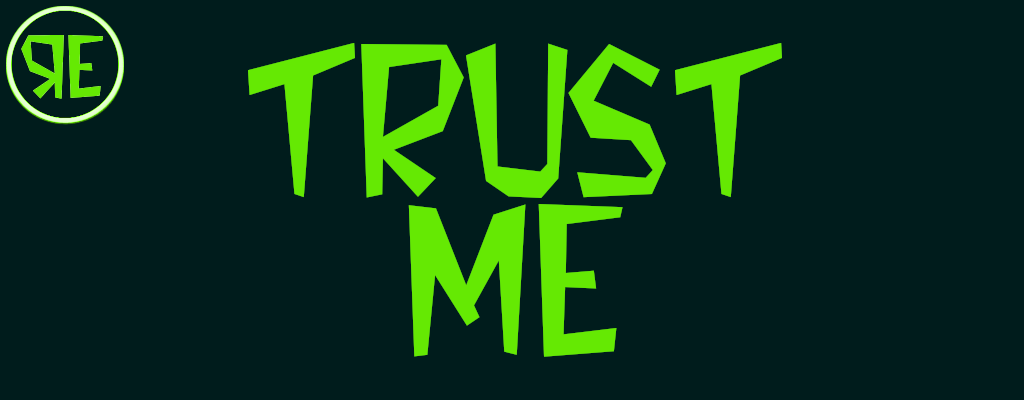
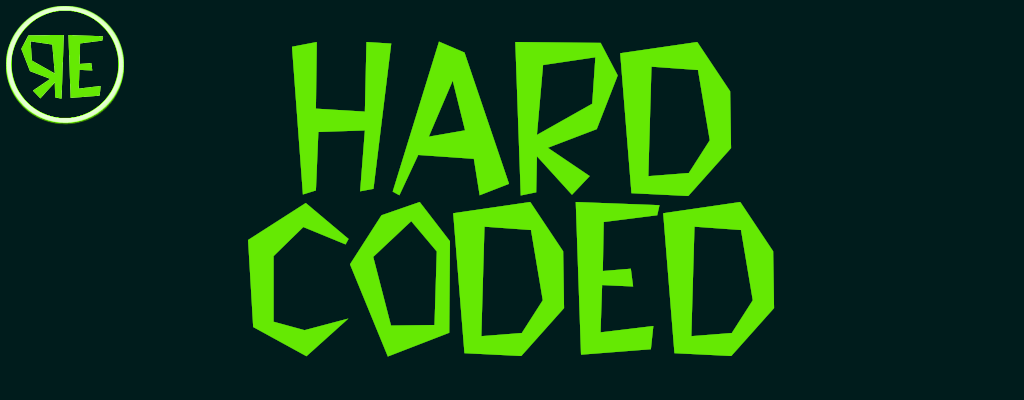
aggiornamento

Changed region(s): [[0.2188, 0.09, 0.7812, 0.9]]

diff --git a/hard_coded.html b/hard_coded.html
@@ -1,0 +1,370 @@
+<!DOCTYPE html>
+<html lang="it">
+<head>
+<meta charset="utf-8">
+<meta name="viewport" content="width=device-width, initial-scale=1.0">
+<meta property="og:image" content="https://spaghetti-hacker.github.io/trust_me.png">
+<meta property="og:image:width" content="1024">
+<meta property="og:image:height" content="400">
+<meta property="og:title" content="TRUST ME">
+<meta property="og:description" content=";crackme che usa TracerPid come meccanismo anti-debug a tre stage.">
+<meta property="og:type" content="article">
+
+<meta name="twitter:card" content="summary_large_image">
+<meta name="twitter:image" content="https://spaghetti-hacker.github.io/trust_me.png">
+
+
+<title>HARD CODED</title>
+<link rel="icon" type="image/png" href="favicon.png">
+<link rel="stylesheet" href="hcf2.css">
+</head>
+<body>
+<div class="wrapper">
+<img src="https://spaghetti-hacker.github.io/trust_me.png" alt="banner" style="width:100%;display:block;">
+<div id="output"></div>
+</div>
+<!--
+================================================================
+SCRIVI QUI IL TUO CONTENUTO
+================================================================
+
+REGOLE:
+  - La prima riga non vuota diventa il titolo della pagina
+    e l'intestazione del box (es. "NO_ELF ~ HCF")
+
+  - @@@...@@@ → blocco codice/assembly (pre-wrap, sfondo scuro)
+
+  - Testo normale → commento (colore muted, paragrafi separati
+    da righe vuote)
+
+  - I link si scrivono normalmente in HTML: <a href="...">testo</a>
+    Il parser li lascia passare nei commenti senza escapare.
+
+  - Tutto il contenuto finisce dentro un unico div.article,
+    esattamente come in no_elf.html.
+
+================================================================
+ESEMPIO:
+
+NO_ELF ~ HCF
+
+<a href="https://spaghetti-hacker.github.io/">&lt;&lt;</a>
+
+;primo commento introduttivo.
+
+;secondo paragrafo del commento.
+
+@@@
+0x00400806 push rbp
+0x00400807 mov rbp, rsp
+@@@
+
+;commento sul blocco qui sopra.
+
+@@@
+0x004008ea ret
+@@@
+
+;commento finale.
+<a href="https://spaghetti-hacker.github.io/">&lt;&lt;</a>
+================================================================
+-->
+<script id="content" type="text/plain">
+HARD CODED ~ HCF
+
+<a href="https://spaghetti-hacker.github.io/">index.html</a>
+
+visite: <span id="visits">...</span>
+
+section .INTRODUZIONE
+
+;il binario oggetto di analisi implementa un finto meccanismo di autenticazione basato su password e hash, presentato all'utente come un sistema di "account" personale: si imposta una password, se ne dichiara la lunghezza, e infine si fornisce un valore di hash per "sbloccare" l'accesso e visualizzare la flag. Il documento è organizzato seguendo il flusso di esecuzione del programma: allocazione e setup iniziale del buffer, interazione con l'utente, meccanismo di verifica, analisi dettagliata di make_secret e dell'algoritmo di hashing (djb2), fino ai passi di sfruttamento riproducibili e alle conclusioni sulla natura della vulnerabilità.
+
+_Nota_Metodologica:
+
+;l'analisi è stata condotta con r2 (radare2) e IDA Free in modalità statica (disassembly di main, make_secret, hash) integrata da osservazione dinamica dei valori a runtimei con gdb, necessaria per confermare che l'output del meccanismo di hashing è costante e indipendente dall'input utente.
+
+<img src="https://spaghetti-hacker.github.io/trust0.png" class="full-img">
+
+section .SETUP_INIZIALE
+
+;la funzione main alloca un buffer heap di 0x5a (90 byte) tramite calloc, zero-inizializzato:
+
+@@@
+0x000013ee      mov esi, 1
+0x000013f3      mov edi, 0x5a
+0x000013f8      call sym.imp.calloc
+0x000013fd      mov qword [dest], rax
+@@@
+
+;calloc(nmemb=0x5a, size=1) alloca 90 byte azzerati sull'heap; ogni elemento è grande 1 byte. Il puntatore risultante viene salvato in dest e riutilizzato più volte nel corso della funzione main. Subito dopo, un ciclo decodifica una stringa offuscata contenuta in obj.obf_bytes, applicando uno XOR byte per byte con la chiave 0xaa, e scrive il risultato in dest a partire dall'offset +0x3c:
+
+@@@
+0x00001411      lea rdx, obj.obf_bytes
+0x00001418      mov rax, qword [var_110h]
+0x0000141f      add rax, rdx
+0x00001422      movzx eax, byte [rax]
+0x00001425      xor eax, 0xffffffaa
+0x00001428      mov ecx, eax
+0x0000142a      mov rax, qword [var_110h]
+0x00001431      lea rdx, [rax + 0x3c]
+0x00001435      mov rax, qword [dest]
+0x0000143c      add rax, rdx
+0x0000143f      mov edx, ecx
+0x00001441      mov byte [rax], dl
+0x00001443      add qword [var_110h], 1
+
+for (i = 0; i <= 0xC; i++)
+{
+    dest[i + 0x3C] = obf_bytes[i] ^ 0xAA;
+}
+@@@
+
+;xor eax, 0xffffffaa opera sul solo byte basso, la chiave effettiva e' 0xaa (170 decimale). Alla fine viene scritto solo dl, cioè gli 8 bit meno significativi di rdx. Il ciclo itera per 13 valori dell'indice (0..0xc inclusi, condizione jbe), decodificando la password hardcoded in chiaro. Il risultato decodificato viene scritto in dest+0x3c, una regione del buffer separata da quella dove verra' poi copiato l'input utente. La stringa decodificata da questo primo ciclo corrisponde alla password hardcoded `iUbh81!j*hn!`, confermata tramite analisi dinamica del contenuto di memoria a runtime.
+
+<img src="https://spaghetti-hacker.github.io/trust1.png" class="full-img">
+
+section .INTERAZIONE_UTENTE
+
+;il programma richiede all'utente di impostare una password (fgets su un buffer da 0x32 byte) e la copia, senza alcun controllo di lunghezza aggiuntivo oltre al limite di fgets, nel buffer dest tramite strcpy:
+
+@@@
+0x0000148f      mov rax, qword [dest]
+0x00001499      mov rdi, rax
+0x0000149c      call sym.imp.strcpy
+@@@
+
+;strcpy(dest, src) copia la password inserita dall'utente sovrascrivendo dest a partire dall'offset 0. Nessuna verifica sulla dimensione di src rispetto alla capacita' di dest (0x5a byte totali): potenziale overflow se l'input supera i limiti imposti a monte da fgets, ma non sfruttabile ai fini di questo challenge poiche' fgets limita gia' l'input a 0x32 byte. Segue una richiesta della lunghezza della password (convertita con atoi) e una stampa di debug che elenca, byte per byte, il contenuto decimale del buffer dest fino alla lunghezza indicata dall'utente:
+
+@@@
+0x0000153b      lea rax, [0x000020a3]       ;"%d "
+0x0000154a      call sym.imp.printf
+@@@
+
+;il formato "%d " stampa ciascun byte del buffer come intero con segno, separato da spazio. Questa stampa e' puramente diagnostica/di debug lasciata nel binario, non influisce sul controllo di autenticazione.
+
+_Nota_Osservazione:
+
+;il ciclo di stampa è vincolato da un limite hardcoded aggiuntivo:
+
+@@@
+0x00001564      cmp dword [var_120h], 0x59
+0x0000156b      jle 0x1520
+@@@
+
+;0x59 = 89 decimale, coerente con la capacita' massima del buffer allocato (0x5a = 90 byte, indice 0..89). Questo limite previene un over-read oltre il buffer allocato durante la stampa di debug, indipendentemente da quanto l'utente dichiari come lunghezza.
+
+section .MECCANISMO_DI_VERIFICA
+
+;l'utente viene quindi invitato a inserire un "hash" per accedere all'account. L'input viene letto con fgets, ripulito dell'eventuale newline finale, e convertito in un valore numerico a 64 bit tramite strtoul in base 10:
+
+@@@
+0x00001607      mov rsi, rcx
+0x0000160a      mov rdi, rax
+0x0000160d      call sym.imp.strtoul
+0x00001612      mov qword [var_f8h], rax
+@@@
+
+;strtoul(str, endptr, base=10) converte la stringa in un long unsigned. Il valore risultante (var_f8h) sara' confrontato con l'hash "segreto" calcolato da make_secret. Il cuore del meccanismo è la chiamata a make_secret, seguita dal confronto diretto con il valore inserito dall'utente:
+
+@@@
+0x00001672      call sym.make_secret
+0x00001677      mov qword [var_f0h], rax
+0x00001685      cmp rax, qword [var_f8h]
+0x0000168c      jne 0x172a
+@@@
+
+;se il valore ritornato da make_secret coincide con quanto digitato dall'utente, l'esecuzione prosegue verso la lettura e stampa di flag.txt. In caso contrario si salta direttamente al cleanup (free + return), senza mostrare la flag.
+
+_Analisi_di_make_secret:
+
+@@@
+0x0000135e sym.make_secret (int64_t arg1)
+
+0x00001378      lea rdx, obj.obf_bytes
+0x00001386      movzx eax, byte [rax]
+0x00001389      xor eax, 0xffffffaa
+0x0000139b      mov byte [rax], dl
+0x000013b3      test al, al
+0x000013b5      jne 0x1378
+@@@
+
+;make_secret NON opera sul buffer dest passato come argomento contenente la password dell'utente. Ri-decodifica invece, da zero, la stessa area obj.obf_bytes gia' processata in setup iniziale, applicando di nuovo lo XOR con chiave 0xaa. Il ciclo termina al primo byte nullo incontrato (test al, al / jne), tipico terminatore di stringa C.
+
+@@@
+0x000013b7      mov rax, qword [var_18h]
+0x000013bb      add rax, 0xc
+0x000013bf      mov byte [rax], 0
+0x000013c9      call sym.hash
+@@@
+
+;dopo la decodifica, viene forzato un byte null all'offset+0xc (troncamento a 12 caratteri). La stringa risultante, di lunghezza fissa 12, viene passata a sym.hash. Il valore di ritorno di hash diventa anche il valore di ritorno di make_secret (nessuna ulteriore elaborazione dopo la call).
+
+_Implicazione_Critica:
+
+;l'argomento arg1 ricevuto da make_secret (puntatore a dest, contenente potenzialmente la password modificata dall'utente) viene scritto ma mai letto prima della ri-decodifica di obj.obf_bytes. Il valore effettivamente hashato è sempre la password hardcoded originale, indipendentemente da qualunque input fornito dall'utente durante l'esecuzione.
+
+section .ALGORITMO_DI_HASH
+
+;la funzione sym.hash implementa l'algoritmo djb2, riconoscibile dal seed iniziale e dalla combinazione shift+add:
+
+@@@
+0x00001315      mov qword [var_8h], 0x1505
+0x0000131f      mov rax, qword [var_8h]
+0x00001323      shl rax, 5
+0x0000132e      add rdx, rax
+0x00001331      mov eax, dword [var_ch]
+0x00001336      add rax, rdx
+@@@
+
+;djb2 è un algoritmo di hashing non crittografico ideato da Daniel J. Bernstein, diffuso a partire dagli anni '90 grazie alla sua semplicità e velocità. Non è pensato per la sicurezza (non offre resistenza a collisioni intenzionali né proprietà crittografiche), ma per usi pratici come hash table, indicizzazione di stringhe o generazione rapida di checksum in software dove le performance contano più della robustezza contro un attaccante. Il suo funzionamento si basa su un seed iniziale "magico" (5381) e su un ciclo che, per ogni carattere della stringa, aggiorna l'hash con la formula hash = hash * 33 + c. Il fattore 33 (ottenuto efficientemente con uno shift a sinistra di 5 bit più un'addizione, come si vede nel disassembly) è stato scelto empiricamente da Bernstein per la sua buona distribuzione statistica degli output, pur non avendo una giustificazione teorica rigorosa. Proprio per l'assenza di garanzie crittografiche, l'uso di djb2 (o varianti come djb2a) in contesti di autenticazione o verifica di segreti — come in questo binario — è una scelta debole: l'algoritmo è deterministico, veloce da invertire per bruteforce su input corti, e in questo caso specifico il problema è aggravato dal fatto che l'input hashato non dipende nemmeno dai dati forniti dall'utente.
+
+;0x1505 = 5381 decimale, il seed classico dell'algoritmo djb2. shl rax, 5 equivale a moltiplicare per 32 (2^5); sommando rax stesso si ottiene hash*33. La formula complessiva e' hash = hash*33 + c, applicata ad ogni byte c della stringa in input.
+
+@@@
+0x0000134f      mov dword [var_ch], eax
+0x00001352      cmp dword [var_ch], 0
+0x00001356      jne 0x131f
+@@@
+
+;il ciclo termina al byte nullo, confermando che l'input e' trattato come stringa C standard null-terminated. Nessuna dipendenza da lunghezza esplicita: il calcolo si basa unicamente sul terminatore. Poiché l'input a questa funzione (la password hardcoded troncata a 12 byte) è costante ad ogni esecuzione, anche il valore restituito da hash è costante. L'analisi dinamica ha confermato il valore `15237662580160011234` come output invariante di make_secret/hash.
+
+section .SFRUTTAMENTO
+
+_Passi_Riproducibili:
+
+;decodifica statica di obj.obf_bytes con XOR 0xaa per ottenere la password hardcoded `iUbh81!j*hn!` (opzionale, utile solo per comprensione, non necessaria per il bypass).
+;alla richiesta "Please set a password for your account", inserimento di un valore qualsiasi (non influisce sul risultato finale).
+;alla richiesta "How many bytes in length is your password?", inserimento di un valore qualsiasi (usato solo per la stampa di debug, non per il controllo di sicurezza).
+;alla richiesta "Enter your hash to access your account!", inserimento del valore costante `15237662580160011234`, ricavabile tramite breakpoint su make_secret o su hash in fase di analisi dinamica.
+
+;il superamento del controllo stampa il contenuto di flag.txt, risolvendo il challenge con `picoCTF{d0nt_XXXXX_XXXXX}`.
+
+section .CONCLUSIONI
+
+_Natura_della_Vulnerabilita:
+
+;il meccanismo di autenticazione presenta un difetto di design (non un memory corruption bug) classificabile come "hardcoded secret con verifica indipendente dall'input utente". L'apparente flusso: imposta password, dichiara lunghezza, fornisci hash, induce l'utente a credere che il valore di confronto derivi dalla password appena impostata. In realtà make_secret ignora completamente il buffer contenente l'input utente e ricalcola sempre l'hash della password originale offuscata in obj.obf_bytes.
+
+_Lezione_Tecnica:
+
+;il nome del file flag ("picoCTF{d0nt_XXXXX_XXXXX}") suggerisce ironicamente il contrario di quanto realmente dimostrato: la vulnerabilità non nasce dal fidarsi ciecamente dell'utente, ma da un controllo di sicurezza che di fatto non verifica affatto l'input fornito, rendendo il meccanismo di autenticazione completamente cosmetico e aggirabile tramite semplice osservazione del valore costante atteso.
+
+<a href="https://spaghetti-hacker.github.io/">index.html</a>
+</script>
+<script>
+(function(){
+    const raw = document.getElementById('content').textContent;
+    const lines = raw.split('\n');
+    const output = document.getElementById('output');
+
+    let i = 0;
+
+    // salta righe vuote iniziali
+    while(i < lines.length && lines[i].trim() === '') i++;
+
+    // prima riga non vuota = titolo
+    const title = lines[i] ? lines[i].trim() : '';
+    if(title){
+        document.title = title;
+    }
+    i++;
+
+    // costruisce il contenuto dentro un unico div.article
+    // il titolo è il nodo di testo iniziale del box
+    let inner = escCode(title);
+    i; // già avanzato
+
+    while(i < lines.length){
+        const line = lines[i];
+
+        // blocco @@@ → codice pre-wrap
+        if(line.trim() === '@@@'){
+            i++;
+            let block = '';
+            while(i < lines.length && lines[i].trim() !== '@@@'){
+                block += lines[i] + '\n';
+                i++;
+            }
+            i++; // salta @@@ di chiusura
+            // il codice viene escapato tranne &lt; &gt; &amp; già scritti
+            //inner += escCode(block.replace(/\n$/, ''));
+	    inner += '<pre class="codeblock">' + escCode(block.replace(/\n$/, '')) + '</pre>';
+            continue;
+        }
+
+        // raccoglie testo fino al prossimo @@@
+        let textLines = [];
+        while(i < lines.length && lines[i].trim() !== '@@@'){
+            textLines.push(lines[i]);
+            i++;
+        }
+
+        const paragraphs = splitParagraphs(textLines);
+        if(paragraphs.length > 0){
+	    inner += '<div class="commento">\n';
+            for (const p of paragraphs){
+                if(p.type === 'title'){
+                    inner += '<p class="title">' + p.text + '</p>\n';
+                } else {
+                    const cleaned = p.text.replace(/\n/g, '<br>');
+                    inner += '<p>' + cleaned + '</p>\n';
+                }
+                }
+            inner += '</div>';
+        }
+    }
+
+    output.innerHTML = '<div class="article">' + inner + '</div>';
+
+    // escapa solo il testo codice (non i commenti che possono avere HTML)
+    function escCode(str){
+        return str
+            .replace(/&(?!(?:amp|lt|gt|quot|#\d+);)/g, '&amp;')
+            .replace(/</g, '&lt;')
+            .replace(/>/g, '&gt;');
+    }
+
+    function splitParagraphs(lines){
+        const result = [];
+        let current = [];
+
+        function flush(){
+            if(current.length > 0){
+                result.push({ type: 'text', text: current.join('\n') });
+                current = [];
+            }
+        }
+
+        for(const line of lines){
+            const trimmed = line.trim();
+            if(trimmed === ''){
+                flush();
+            } else if(/^(section|_)/.test(trimmed)){
+                // riga "title": es. "section .CONCLUSIONI" o "_Natura_della_Vulnerabilita:"
+                flush();
+                result.push({ type: 'title', text: trimmed });
+            } else {
+                current.push(line);
+            }
+        }
+        flush();
+        return result;
+    }
+})();
+</script>
+<script>
+fetch("https://api.counterapi.dev/v1/:spaghettihacker/:trustme/up")
+  .then(res => res.json())
+  .then(data => {
+    const counter = data.count;
+
+    document.getElementById("visits").innerText =
+      counter !== undefined ? counter : "error";
+  })
+  .catch(() => {
+    document.getElementById("visits").innerText = "error";
+  });
+</script>
+</body>
+</html>
